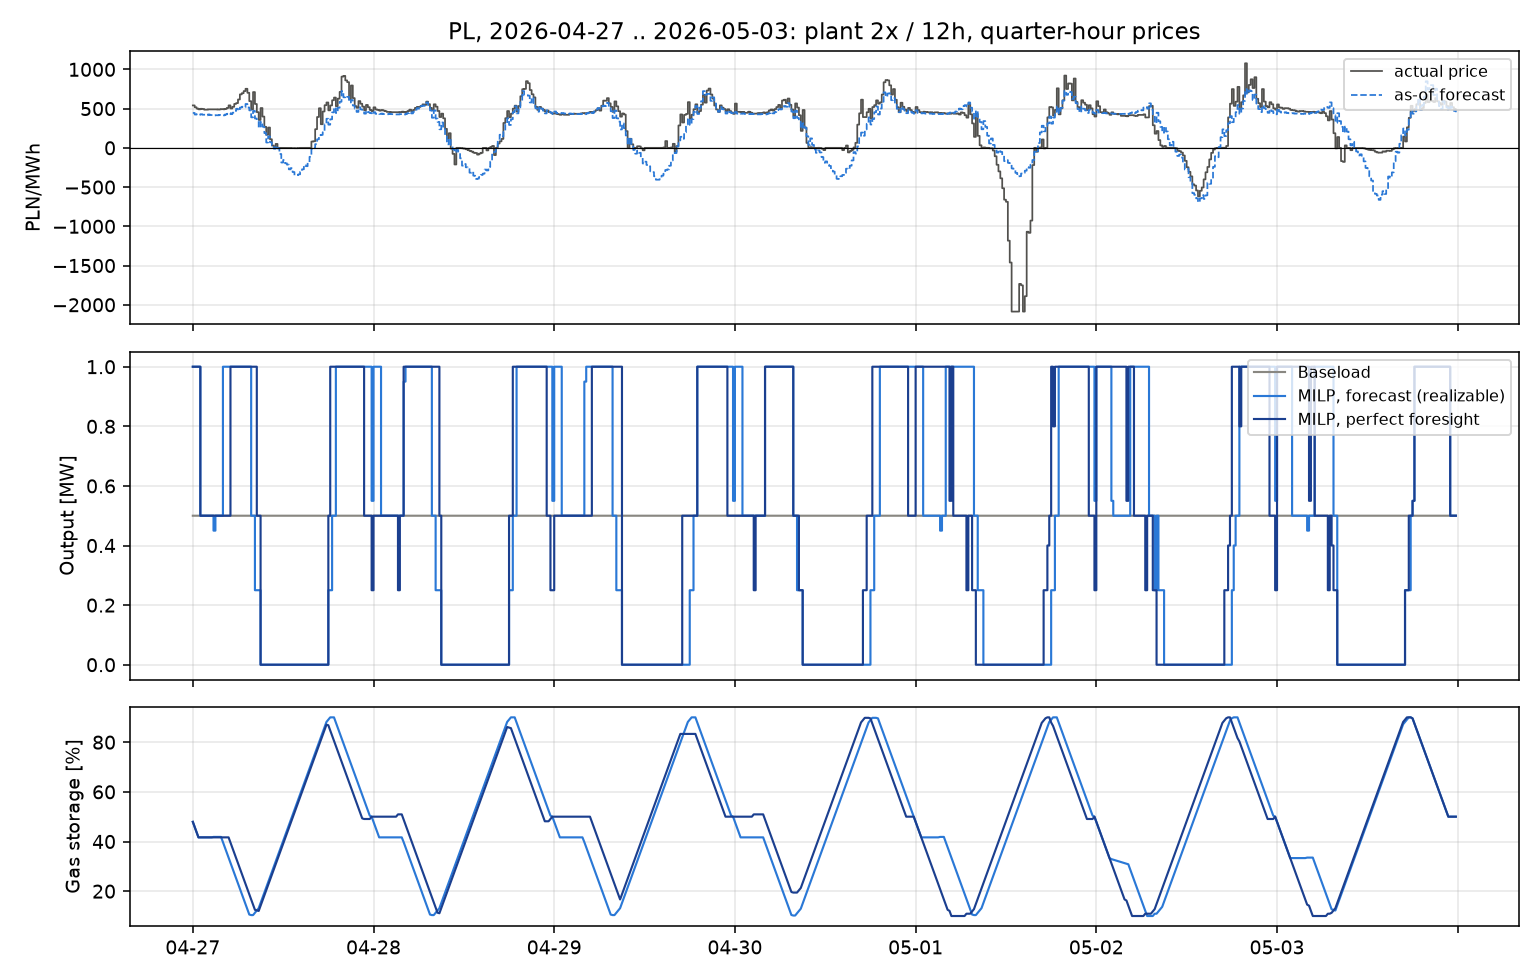
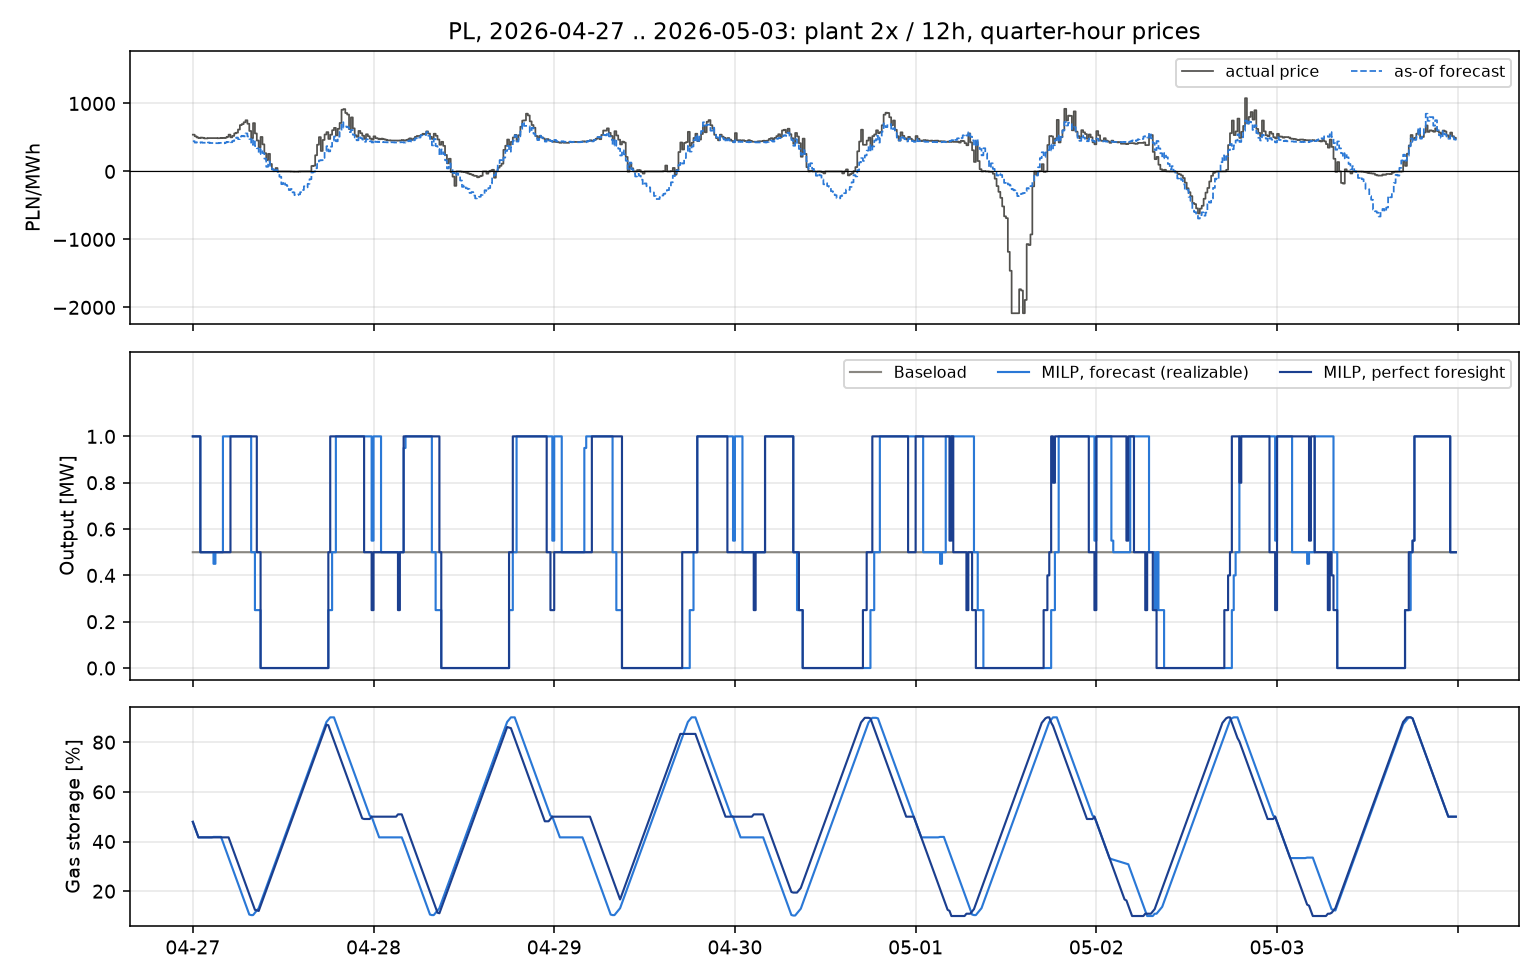
Charts: legends off the data in the example weeks, short strategy names in the margin chart
Example weeks: headroom above prices and output and one-row legends, so the legends no longer cover price peaks and full-load output. Dashboard: short strategy names in the half-width margin chart (the full names ran into each other and the legend), no storage tick on the corner of the week chart, profile legend below its axis title. Layout only; results unchanged.

diff --git a/docs/index.html b/docs/index.html
@@ -197,7 +197,9 @@ function drawBars(c) {
   const rows = [["today", "1x_2h", "baseload"]].concat(STRAT.filter(s => s !== "baseload").map(s => [s, k, s]));
   const SHORT = {today: "Today", rank_forecast: "Rank, fc.", rank_perfect: "Rank, actual", milp_forecast: "MILP, fc.", milp_perfect: "MILP, PF"};
   const narrow = window.innerWidth < 600;
-  const names = rows.map(r => narrow ? SHORT[r[0]] : (r[0] === "today" ? "Today (1x baseload)" : D.labels[r[0]]));
+  // the chart sits in a half-width card: the full strategy names ran into each other and into the legend
+  const short = narrow || document.getElementById("bars").clientWidth < 760;
+  const names = rows.map(r => short ? SHORT[r[0]] : (r[0] === "today" ? "Today (1x baseload)" : D.labels[r[0]]));
   const vals = rows.map(r => annual(c.market, r[1], r[2], c.period));
   const k1 = v => v / 1000;
   const traces = [
@@ -262,7 +264,7 @@ function drawWeek(c) {
     title: {text: `${c.market}: ${w.days[0]} .. ${w.days[6]}, quarter-hour prices`, font: {size: 14, color: css("--ink")}},
     yaxis3: Object.assign({domain: [0.68, 1], title: "PLN/MWh"}, ax),
     yaxis2: Object.assign({domain: [0.30, 0.64], title: "MW"}, ax),
-    yaxis: Object.assign({domain: [0, 0.26], title: "storage %", range: [0, 100]}, ax),
+    yaxis: Object.assign({domain: [0, 0.26], title: "storage %", range: [0, 100], tickvals: [25, 50, 75, 100]}, ax),
     xaxis: Object.assign({type: "date"}, ax), legend: {orientation: "h", y: -0.12}, margin: {l: 60, r: 20, t: 40, b: 90}}), CFG);
   const neg = w.price.filter(v => v < 0).length / 4;
   $("weeknote").textContent = `The week is the one with the most negative Polish quarter-hours since quarter-hour products started; it had ${fmt(neg, 1)} h of negative prices in ${c.market === "PL" ? "Poland" : "Germany"}. ` +
@@ -309,7 +311,8 @@ function drawGermany() {
   tr.push({type: "scatter", mode: "lines", name: `price ${last}`, yaxis: "y2", x: li.map(j => g.profiles.hour[j]), y: li.map(j => g.profiles.price_rel[j]), line: {color: css("--ink2"), dash: "dot"}});
   Plotly.react("deProfile", tr, layout({title: {text: "Mean daily profile (÷ yearly mean)", font: {size: 14, color: css("--ink")}},
     xaxis: {title: "hour (local)", gridcolor: css("--grid")}, yaxis: {title: "output", gridcolor: css("--grid")},
-    yaxis2: {title: "price", overlaying: "y", side: "right", showgrid: false}, margin: {l: 60, r: 60, t: 40, b: 50}}), CFG);
+    yaxis2: {title: "price", overlaying: "y", side: "right", showgrid: false}, legend: {orientation: "h", y: -0.3},
+    margin: {l: 60, r: 60, t: 40, b: 80}}), CFG);
 }
 
 function drawAssumptions() {

diff --git a/src/biogas_flex/templates/index.html b/src/biogas_flex/templates/index.html
@@ -197,7 +197,9 @@ function drawBars(c) {
   const rows = [["today", "1x_2h", "baseload"]].concat(STRAT.filter(s => s !== "baseload").map(s => [s, k, s]));
   const SHORT = {today: "Today", rank_forecast: "Rank, fc.", rank_perfect: "Rank, actual", milp_forecast: "MILP, fc.", milp_perfect: "MILP, PF"};
   const narrow = window.innerWidth < 600;
-  const names = rows.map(r => narrow ? SHORT[r[0]] : (r[0] === "today" ? "Today (1x baseload)" : D.labels[r[0]]));
+  // the chart sits in a half-width card: the full strategy names ran into each other and into the legend
+  const short = narrow || document.getElementById("bars").clientWidth < 760;
+  const names = rows.map(r => short ? SHORT[r[0]] : (r[0] === "today" ? "Today (1x baseload)" : D.labels[r[0]]));
   const vals = rows.map(r => annual(c.market, r[1], r[2], c.period));
   const k1 = v => v / 1000;
   const traces = [
@@ -262,7 +264,7 @@ function drawWeek(c) {
     title: {text: `${c.market}: ${w.days[0]} .. ${w.days[6]}, quarter-hour prices`, font: {size: 14, color: css("--ink")}},
     yaxis3: Object.assign({domain: [0.68, 1], title: "PLN/MWh"}, ax),
     yaxis2: Object.assign({domain: [0.30, 0.64], title: "MW"}, ax),
-    yaxis: Object.assign({domain: [0, 0.26], title: "storage %", range: [0, 100]}, ax),
+    yaxis: Object.assign({domain: [0, 0.26], title: "storage %", range: [0, 100], tickvals: [25, 50, 75, 100]}, ax),
     xaxis: Object.assign({type: "date"}, ax), legend: {orientation: "h", y: -0.12}, margin: {l: 60, r: 20, t: 40, b: 90}}), CFG);
   const neg = w.price.filter(v => v < 0).length / 4;
   $("weeknote").textContent = `The week is the one with the most negative Polish quarter-hours since quarter-hour products started; it had ${fmt(neg, 1)} h of negative prices in ${c.market === "PL" ? "Poland" : "Germany"}. ` +
@@ -309,7 +311,8 @@ function drawGermany() {
   tr.push({type: "scatter", mode: "lines", name: `price ${last}`, yaxis: "y2", x: li.map(j => g.profiles.hour[j]), y: li.map(j => g.profiles.price_rel[j]), line: {color: css("--ink2"), dash: "dot"}});
   Plotly.react("deProfile", tr, layout({title: {text: "Mean daily profile (÷ yearly mean)", font: {size: 14, color: css("--ink")}},
     xaxis: {title: "hour (local)", gridcolor: css("--grid")}, yaxis: {title: "output", gridcolor: css("--grid")},
-    yaxis2: {title: "price", overlaying: "y", side: "right", showgrid: false}, margin: {l: 60, r: 60, t: 40, b: 50}}), CFG);
+    yaxis2: {title: "price", overlaying: "y", side: "right", showgrid: false}, legend: {orientation: "h", y: -0.3},
+    margin: {l: 60, r: 60, t: 40, b: 80}}), CFG);
 }
 
 function drawAssumptions() {

diff --git a/src/biogas_flex/report.py b/src/biogas_flex/report.py
@@ -151,7 +151,11 @@ def fig_example_week(week: dict, prices: dict, design: str, path: Path, market: 
     ax1.step(x, prices["forecast"], where="post", color=COLORS["milp_forecast"], lw=0.9, ls="--", label="as-of forecast")
     ax1.axhline(0, color="black", lw=0.6)
     ax1.set_ylabel("PLN/MWh")
-    ax1.legend(fontsize=8, loc="upper right")
+    # headroom above the data so the one-row legends no longer cover price peaks and full-load output
+    lo = min(np.nanmin(prices["price"]), np.nanmin(prices["forecast"]))
+    hi = max(np.nanmax(prices["price"]), np.nanmax(prices["forecast"]))
+    ax1.set_ylim(lo - 0.05 * (hi - lo), hi + 0.22 * (hi - lo))
+    ax1.legend(fontsize=8, loc="upper right", ncol=2)
     for st in ("baseload", "milp_forecast", "milp_perfect"):
         key = f"{design}|{st}|merchant" if st != "baseload" else "1x_2h|baseload|merchant"
         p = np.concatenate([np.repeat(week["schedules"][key][d]["power"], 4 if week["schedules"][key][d]["dt"] == 1.0 else 1)
@@ -162,7 +166,10 @@ def fig_example_week(week: dict, prices: dict, design: str, path: Path, market: 
                                           4 if week["schedules"][key][d]["dt"] == 1.0 else 1) for d in days])
             ax3.plot(x, 100 * s, color=COLORS[st], lw=1.1)
     ax2.set_ylabel("Output [MW]")
-    ax2.legend(fontsize=8, loc="upper right")
+    top = ax2.get_ylim()[1]
+    ax2.set_yticks([t for t in ax2.get_yticks() if 0 <= t <= top])
+    ax2.set_ylim(top=1.3 * top)
+    ax2.legend(fontsize=8, loc="upper right", ncol=3)
     ax3.set_ylabel("Gas storage [%]")
     ax3.set_xticks(np.arange(0, 7 * 24 + 1, 24), [d[5:] for d in days] + [""])
     for ax in (ax1, ax2, ax3):
